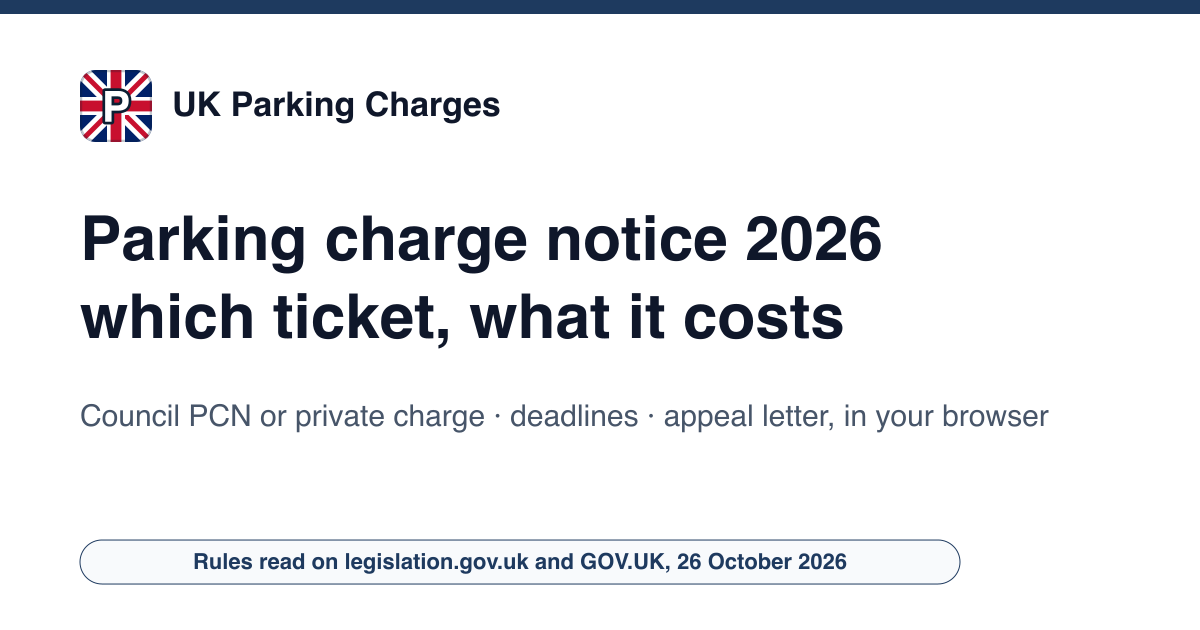
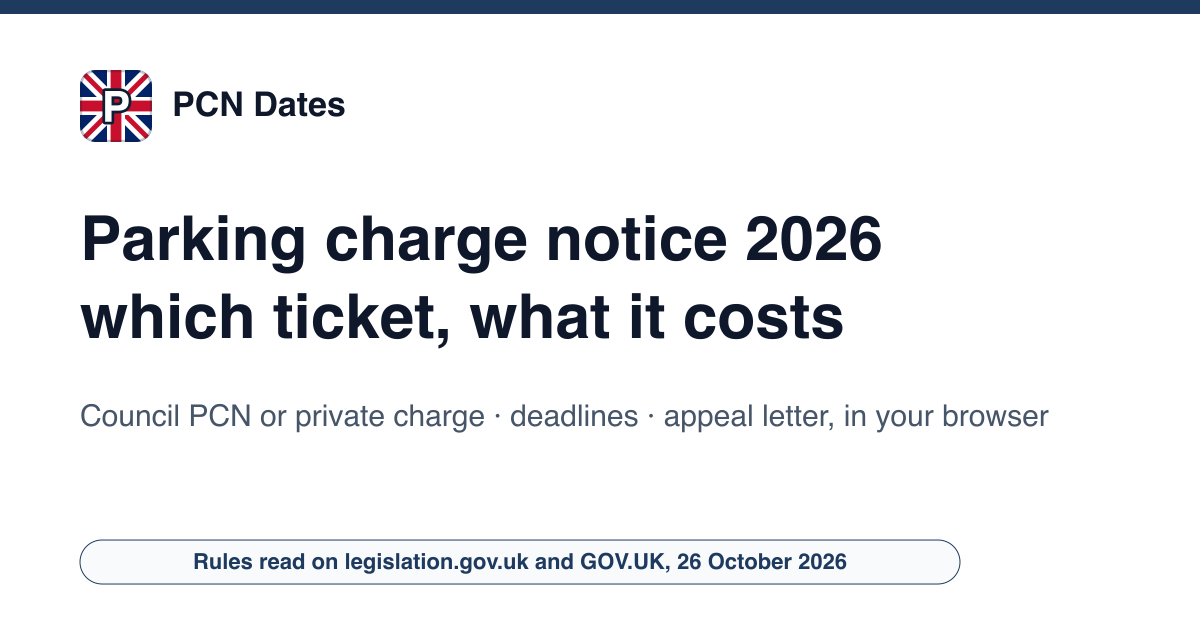
Renommage sur le domaine pcndates.co.uk

Changed region(s): [[0.1233, 0.1206, 0.4317, 0.2111]]

diff --git a/src/data/site-config.ts b/src/data/site-config.ts
@@ -1,6 +1,6 @@
 /** Configuration centrale du site (générée par new-site.py). */
-export const SITE_URL = "https://uk-parking-charges.example";
-export const SITE_NAMES: Record<string, string> = {"en": "UK Parking Charges"};
+export const SITE_URL = "https://pcndates.co.uk";
+export const SITE_NAMES: Record<string, string> = {"en": "PCN Dates"};
 // Partie du nom affichée en couleur dans l'en-tête (RECETTE §10.3), « » pour aucune.
 export const BRAND_ACCENT = "";
 export const LANG_TAGS: Record<string, string> = {"en": "en-GB"};
@@ -18,7 +18,7 @@ export const AUTHOR_DESC: Record<string, string> = {"en": "Radif Partners reads 
  *  themes reellement traites par le site, pas une liste de mots-cles : un sujet
  *  declare ici sans page qui le couvre est une declaration fausse. */
 export const KNOWS_ABOUT: Record<string, string[]> = {"en": ["Penalty charge notices under the Traffic Management Act 2004", "Private parking charges and Schedule 4 to the Protection of Freedoms Act 2012", "Private Parking Code of Practice 2026", "POPLA and IAS appeals", "Traffic Penalty Tribunal and London Tribunals", "Parking enforcement in Scotland and Northern Ireland"]};
-export const CONTACT_EMAIL = "contact@uk-parking-charges.example";
+export const CONTACT_EMAIL = "contact@pcndates.co.uk";
 export const THEME_COLOR = '#1E3A5F';
 export const LOGO_SYMBOL = 'P';
 export const BING_VERIFY_CODE = '';
